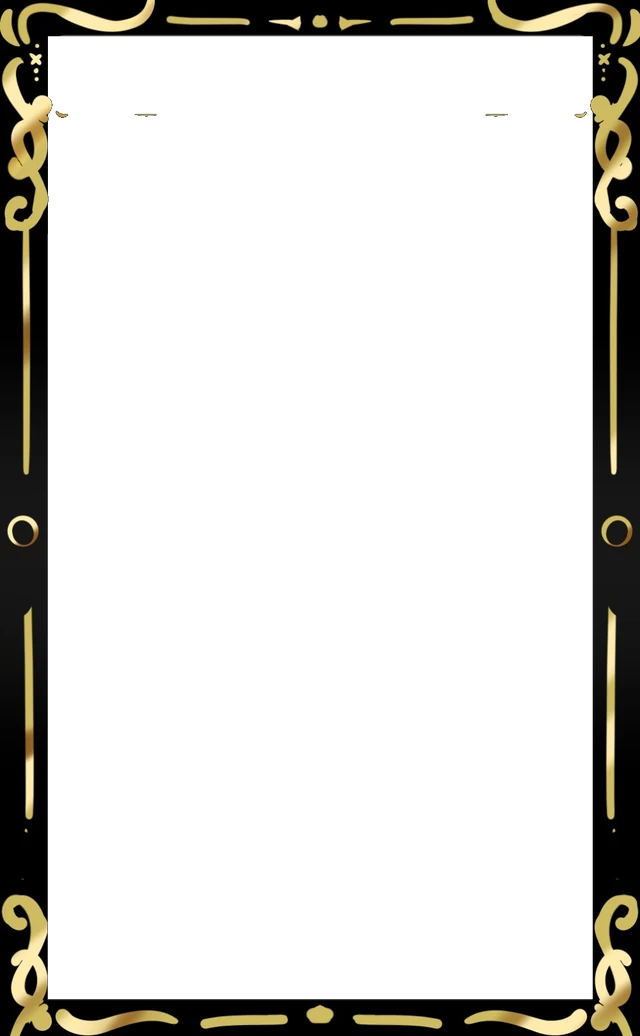
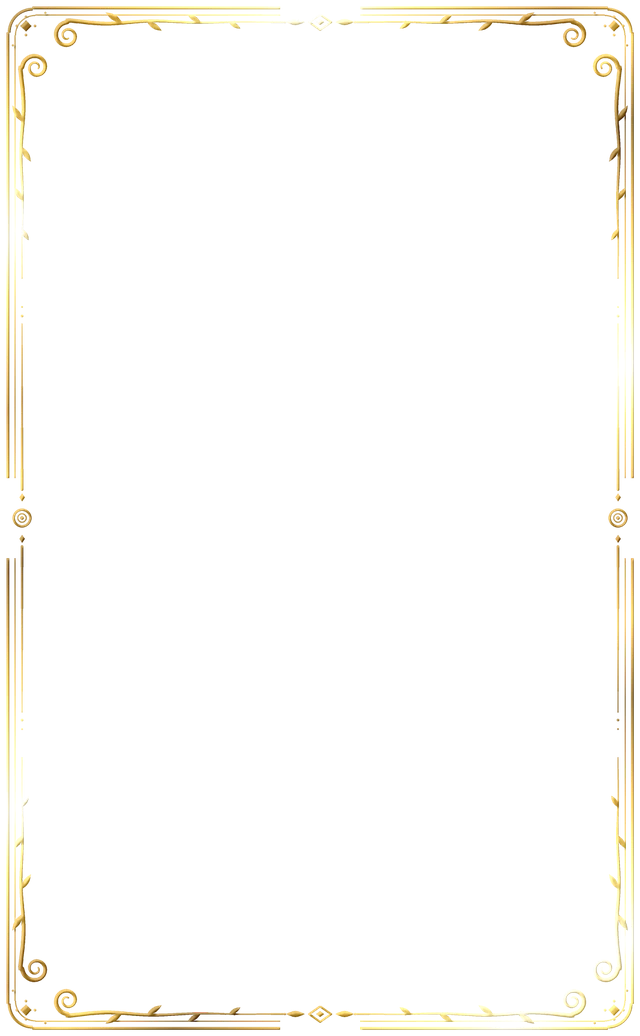
feat(premium): filigrana dorada original para el marco de donación
- Reemplaza el recorte del boceto por arte propio generado por código
- Añade scripts/arte/marco-donacion.py (Pillow + numpy), reproducible
- Documenta el generador en AGENTS.md

Claude-Session: https://claude.ai/code/session_017Z7sUcz1SjHNVRar6wnBqo

Changed region(s): [[0.0, 0.0, 1.0, 1.0]]

diff --git a/scripts/arte/marco-donacion.py b/scripts/arte/marco-donacion.py
@@ -1,0 +1,285 @@
+#!/usr/bin/env python3
+# Copyright (c) 2026 VTuberDex. Todos los derechos reservados. Ver LICENSE.
+"""
+Genera `components/marcos/donacion.webp`: la filigrana dorada ORIGINAL del marco de las cartas gradeadas por donación.
+
+Estilo pedido por el mantenedor (boceto): hoja negra con un marco de oro ornamentado: doble filete, volutas en las
+esquinas, anillos a los costados y un medallón arriba y abajo. El boceto era solo una guía de estilo; el dibujo es nuestro
+y sale de este script, así que es reproducible y se puede afinar (todas las medidas están arriba) en vez de ser un
+archivo opaco. El artista puede sustituir el resultado por su versión final con el mismo contrato (ver `premium-marco-arte.ts`).
+
+Uso (necesita Pillow y numpy):   python3 scripts/arte/marco-donacion.py
+Resultado: PNG/WebP con alfa, 640 x 1036 (proporción 1 : 1,62 de la placa). Solo hay oro: el interior queda transparente y
+el negro lo pone la hoja (`insert.frame`).
+
+CÓMO SE DIBUJA
+ · Todo se traza en una máscara (L) a 3x y se baja con LANCZOS: bordes limpios sin dibujar a mano el antialias.
+ · Los trazos son POLÍGONOS de ancho variable (`trazo`): una línea de contorno con grosor que va de `w0` a `w1`, que es lo que
+   da el aire de pluma de caligrafía (un `line()` de ancho fijo se vería técnico).
+ · El oro es un degradado metálico en bandas diagonales con un brillo estrecho, no un color liso.
+"""
+import math
+import sys
+from pathlib import Path
+
+import numpy as np
+from PIL import Image, ImageDraw, ImageFilter
+
+# ---- Medidas (en px del lienzo BASE de 988 x 1600; todo se escala solo) -------------------------------------------------
+W, H = 988, 1600
+SS = 3  # supersampling
+SALIDA = (640, 1036)
+
+BANDA = 66  # el adorno vive en este margen exterior (≈ 7 % del ancho): lo de dentro lo tapan la etiqueta y la ventana
+FILETE_EXT = (12, 4.4)  # (inset, grosor) del filete exterior
+FILETE_INT = (23, 1.8)  # idem del interior
+EJE = 36  # línea central de las enredaderas dentro de la banda
+GAP_MEDALLON = 62  # medio ancho que los filetes dejan libre alrededor de un medallón
+
+ORO = [  # (posición 0..1, color) a lo largo del degradado metálico
+    (0.00, (110, 78, 22)),
+    (0.18, (206, 162, 62)),
+    (0.34, (250, 226, 138)),
+    (0.42, (255, 247, 205)),  # brillo
+    (0.52, (232, 196, 96)),
+    (0.72, (150, 108, 34)),
+    (0.86, (214, 172, 70)),
+    (1.00, (110, 78, 22)),
+]
+
+
+def s(v):
+    return v * SS
+
+
+def trazo(draw, pts, w0, w1, caps=True):
+    """Polígono de ancho variable sobre la línea `pts` (lista de (x, y)); el ancho va de w0 a w1 a lo largo del trazo."""
+    n = len(pts)
+    if n < 2:
+        return
+    izq, der = [], []
+    for i, (x, y) in enumerate(pts):
+        a = pts[max(i - 1, 0)]
+        b = pts[min(i + 1, n - 1)]
+        dx, dy = b[0] - a[0], b[1] - a[1]
+        ln = math.hypot(dx, dy) or 1.0
+        nx, ny = -dy / ln, dx / ln
+        t = i / (n - 1)
+        w = (w0 + (w1 - w0) * t) / 2
+        izq.append((s(x + nx * w), s(y + ny * w)))
+        der.append((s(x - nx * w), s(y - ny * w)))
+    draw.polygon(izq + der[::-1], fill=255)
+    if caps:
+        for (x, y), w in ((pts[0], w0), (pts[-1], w1)):
+            r = max(w / 2, 0.3)
+            draw.ellipse((s(x - r), s(y - r), s(x + r), s(y + r)), fill=255)
+
+
+def punto(draw, x, y, r):
+    draw.ellipse((s(x - r), s(y - r), s(x + r), s(y + r)), fill=255)
+
+
+def anillo(draw, x, y, r, grosor):
+    draw.ellipse((s(x - r), s(y - r), s(x + r), s(y + r)), outline=255, width=max(1, round(s(grosor))))
+
+
+def rombo(draw, x, y, ancho, alto, relleno=True, grosor=1.6):
+    pts = [(s(x), s(y - alto / 2)), (s(x + ancho / 2), s(y)), (s(x), s(y + alto / 2)), (s(x - ancho / 2), s(y))]
+    if relleno:
+        draw.polygon(pts, fill=255)
+    else:
+        draw.line(pts + [pts[0]], fill=255, width=max(1, round(s(grosor))), joint="curve")
+
+
+def hoja(draw, cx, cy, largo, ancho, angulo):
+    """Hoja en forma de lente (dos arcos) centrada en (cx, cy) y apuntando a `angulo` (radianes)."""
+    ca, sa = math.cos(angulo), math.sin(angulo)
+    pts = []
+    for k in range(0, 21):
+        t = k / 20
+        u = (t - 0.5) * largo
+        v = math.sin(t * math.pi) * ancho / 2
+        pts.append((cx + u * ca - v * sa, cy + u * sa + v * ca))
+    for k in range(20, -1, -1):
+        t = k / 20
+        u = (t - 0.5) * largo
+        v = -math.sin(t * math.pi) * ancho / 2
+        pts.append((cx + u * ca - v * sa, cy + u * sa + v * ca))
+    draw.polygon([(s(x), s(y)) for x, y in pts], fill=255)
+
+
+def espiral(cx, cy, r0, r1, vueltas, ang0, sentido, n=140):
+    """Puntos de una espiral que parte a radio r0 y ángulo ang0 y se cierra hasta r1. sentido = +1 horario en pantalla."""
+    pts = []
+    for i in range(n + 1):
+        t = i / n
+        r = r0 + (r1 - r0) * (t**0.85)
+        a = ang0 + sentido * vueltas * 2 * math.pi * t
+        pts.append((cx + r * math.cos(a), cy + r * math.sin(a)))
+    return pts
+
+
+def enredadera_superior(x_ini, x_fin, y, amplitud, longitud_onda):
+    """Línea ondulada de x_ini a x_fin (puede ser decreciente) cuya onda se apaga en x_ini (para empalmar con la voluta)."""
+    n = 120
+    pts = []
+    for i in range(n + 1):
+        t = i / n
+        x = x_ini + (x_fin - x_ini) * t
+        env = t  # 0 donde empalma con la voluta, 1 lejos
+        pts.append((x, y + amplitud * env * math.sin(2 * math.pi * (x - x_ini) / longitud_onda)))
+    return pts
+
+
+def esquina_superior_izquierda(draw):
+    """Voluta de una esquina (las otras tres son espejos): dos espirales, una por cada enredadera, y sus hojas."""
+    R = 21
+    # Enredadera de arriba -> voluta que gira en sentido antihorario (entra por la parte alta, hacia la izquierda).
+    cx1, cy1 = 104, EJE + R - 2
+    cola = enredadera_superior(430, cx1, EJE - 2, 3.0, 150)  # de lejos (fina) hacia la voluta (gruesa)
+    # El trazo se dibuja de la voluta hacia fuera para que el ancho vaya de grueso a fino.
+    esp = espiral(cx1, cy1, R, 4.5, 1.55, -math.pi / 2, -1)
+    cuerpo = esp[::-1] + cola[::-1]  # del centro de la espiral, saliendo, hasta la punta lejana
+    # Se recorre desde el centro de la voluta: ancho fino en el centro, máximo en la boca, y otra vez fino en la punta.
+    n = len(cuerpo)
+    corte = len(esp)
+    trazo(draw, cuerpo[:corte], 2.0, 6.6, caps=True)
+    trazo(draw, cuerpo[corte - 1 :], 6.6, 0.8, caps=True)
+
+    # Enredadera lateral: la misma pieza espejada sobre la diagonal.
+    cx2, cy2 = cy1, cx1
+    cola2 = [(y, x) for (x, y) in cola]
+    esp2 = [(y, x) for (x, y) in esp]
+    cuerpo2 = esp2[::-1] + cola2[::-1]
+    trazo(draw, cuerpo2[:corte], 2.0, 6.6, caps=True)
+    trazo(draw, cuerpo2[corte - 1 :], 6.6, 0.8, caps=True)
+
+    # Hojas a lo largo de cada enredadera, alternando lados.
+    for k, x in enumerate((176, 238, 300, 362)):
+        lado = -1 if k % 2 == 0 else 1
+        y = EJE - 2 + 3.0 * ((x - 104) / 326) * math.sin(2 * math.pi * (x - 104 - 0) / 150)
+        largo = 30 - k * 3
+        ang = math.radians(-32 * lado) if lado < 0 else math.radians(32)
+        hoja(draw, x, y + lado * 7, largo, 8.5 - k * 0.6, ang)
+        hoja(draw, y + lado * 7, x, largo, 8.5 - k * 0.6, math.pi / 2 - ang)
+
+    # El diamante de la esquina y unas motas.
+    rombo(draw, 40, 40, 17, 17)
+    for dx, dy in ((26, 40), (54, 40), (40, 26), (40, 54)):
+        punto(draw, dx, dy, 1.9)
+    punto(draw, 70, 20, 1.4)
+    punto(draw, 20, 70, 1.4)
+
+
+def medallon_horizontal(draw, cx, y):
+    """Adorno central de arriba/abajo: rombo con ojo, dos hojas y dos filetes finos que mueren hacia las enredaderas."""
+    rombo(draw, cx, y, 34, 24, relleno=False, grosor=3.4)
+    rombo(draw, cx, y, 12, 9)
+    for lado in (-1, 1):
+        hoja(draw, cx + lado * 38, y, 28, 9, 0 if lado > 0 else math.pi)
+        trazo(draw, [(cx + lado * 54, y), (cx + lado * 120, y)], 3.2, 0.7)
+        punto(draw, cx + lado * 132, y, 1.8)
+        punto(draw, cx + lado * 146, y, 1.1)
+
+
+def medallon_lateral(draw, x, cy):
+    """Adorno central de los costados: anillo doble con ojo, rombos arriba y abajo y filetes que mueren hacia las volutas."""
+    anillo(draw, x, cy, 14.5, 3.6)
+    anillo(draw, x, cy, 7.2, 1.6)
+    punto(draw, x, cy, 2.6)
+    for lado in (-1, 1):
+        rombo(draw, x, cy + lado * 32, 8, 12)
+        trazo(draw, [(x, cy + lado * 44), (x, cy + lado * 300)], 3.4, 0.7)
+        punto(draw, x, cy + lado * 312, 1.8)
+        punto(draw, x, cy + lado * 326, 1.1)
+
+
+def filetes(draw):
+    """Doble filete: continuo en el contorno, con un hueco alrededor de cada medallón y esquinas redondeadas."""
+    for inset, grosor in (FILETE_EXT, FILETE_INT):
+        w = max(1, round(s(grosor)))
+        x0, y0, x1, y1 = inset, inset, W - inset, H - inset
+        r = 38 - (inset - FILETE_EXT[0]) * 0.6
+        tramos = [
+            # arriba: izquierda y derecha del medallón
+            ((x0 + r, y0), (W / 2 - GAP_MEDALLON, y0)),
+            ((W / 2 + GAP_MEDALLON, y0), (x1 - r, y0)),
+            # abajo
+            ((x0 + r, y1), (W / 2 - GAP_MEDALLON, y1)),
+            ((W / 2 + GAP_MEDALLON, y1), (x1 - r, y1)),
+            # izquierda y derecha: arriba y abajo del medallón
+            ((x0, y0 + r), (x0, H / 2 - GAP_MEDALLON)),
+            ((x0, H / 2 + GAP_MEDALLON), (x0, y1 - r)),
+            ((x1, y0 + r), (x1, H / 2 - GAP_MEDALLON)),
+            ((x1, H / 2 + GAP_MEDALLON), (x1, y1 - r)),
+        ]
+        for (ax, ay), (bx, by) in tramos:
+            draw.line((s(ax), s(ay), s(bx), s(by)), fill=255, width=w)
+        for (ex, ey, a0) in ((x0, y0, 180), (x1, y0, 270), (x1, y1, 0), (x0, y1, 90)):
+            cx = ex + (r if ex == x0 else -r)
+            cy = ey + (r if ey == y0 else -r)
+            draw.arc((s(cx - r), s(cy - r), s(cx + r), s(cy + r)), a0, a0 + 90, fill=255, width=w)
+
+
+def dibujar():
+    mascara = Image.new("L", (s(W), s(H)), 0)
+    d = ImageDraw.Draw(mascara)
+    filetes(d)
+
+    # Esquina arriba-izquierda y sus tres espejos: se dibuja una vez en un lienzo y se refleja.
+    cuarto = Image.new("L", (s(W), s(H)), 0)
+    esquina_superior_izquierda(ImageDraw.Draw(cuarto))
+    espejos = [
+        cuarto,
+        cuarto.transpose(Image.FLIP_LEFT_RIGHT),
+        cuarto.transpose(Image.FLIP_TOP_BOTTOM),
+        cuarto.transpose(Image.ROTATE_180),
+    ]
+    for e in espejos:
+        mascara = Image.fromarray(np.maximum(np.asarray(mascara), np.asarray(e)))
+    d = ImageDraw.Draw(mascara)
+
+    medallon_horizontal(d, W / 2, EJE - 2)
+    medallon_horizontal(d, W / 2, H - (EJE - 2))
+    medallon_lateral(d, EJE - 2, H / 2)
+    medallon_lateral(d, W - (EJE - 2), H / 2)
+    return mascara
+
+
+def degradado_oro(ancho, alto):
+    """Oro metálico: bandas diagonales con un brillo estrecho, repetidas para que la luz «recorra» la pieza."""
+    yy, xx = np.mgrid[0:alto, 0:ancho].astype(np.float32)
+    t = ((xx * 0.42 + yy * 0.58) / (ancho * 0.42 + alto * 0.58)) * 2.6 % 1.0
+    pos = [p for p, _ in ORO]
+    out = np.zeros((alto, ancho, 3), np.float32)
+    for c in range(3):
+        out[..., c] = np.interp(t, pos, [col[c] for _, col in ORO])
+    return out
+
+
+def main():
+    destino = Path(__file__).resolve().parents[2] / "components" / "marcos" / "donacion.webp"
+    mascara = dibujar().filter(ImageFilter.GaussianBlur(0.35 * SS / 3))
+    mascara = mascara.resize((W, H), Image.LANCZOS)
+
+    oro = degradado_oro(W, H)
+    alfa = np.asarray(mascara, np.float32)
+
+    # Relieve: un reborde claro arriba-izquierda y oscuro abajo-derecha da volumen al trazo.
+    relieve = np.asarray(mascara.filter(ImageFilter.GaussianBlur(1.6)), np.float32)
+    luz = np.clip((np.roll(relieve, 2, axis=(0, 1)) - relieve) * 0.9, -60, 60)[..., None]
+    rgb = np.clip(oro - luz, 0, 255)
+
+    rgba = np.dstack([rgb, alfa]).astype(np.uint8)
+    img = Image.fromarray(rgba, "RGBA").resize(SALIDA, Image.LANCZOS)
+    img.save(destino, "WEBP", quality=90, method=6)
+    vista = Path("/tmp/vis/marco-original.png")
+    if vista.parent.exists():
+        fondo = Image.new("RGBA", SALIDA, (13, 13, 16, 255))
+        fondo.alpha_composite(img)
+        fondo.convert("RGB").save(vista)
+    print("ok", destino, img.size, destino.stat().st_size, "bytes")
+
+
+if __name__ == "__main__":
+    sys.exit(main())

diff --git a/AGENTS.md b/AGENTS.md
@@ -511,10 +511,9 @@ Tres añadidos del panel `/minecraft-admin` (solo admin) y de la carta. Todo que
   interior y `etiqueta` (rótulo del tipo y filete de acento) por origen vía `marcoDe()`: `premium8` dorado («PREMIUM 8»), `misiones` esmeralda
   («MISIONES»), `donacion` azul («DONACIÓN», sin origen = donación). La banda sigue siendo del GRADO; BLACK LABEL y DETERIORADA mandan sobre el rótulo.
   Solo perillas existentes: no tocan samplers. Diseño propuesto por Claude: ajustable tocando solo esa tabla.
-  **Marco de donación = hoja negra con filigrana dorada** (boceto del mantenedor, 2026-11-28): `marcos.donacion.insert.arte = "donacion"` pinta la imagen
+  **Marco de donación = hoja negra con filigrana dorada** (estilo del boceto del mantenedor, 2026-11-28; el dibujo es ORIGINAL y lo genera `scripts/arte/marco-donacion.py`, que necesita Pillow y numpy: `python3 scripts/arte/marco-donacion.py`): `marcos.donacion.insert.arte = "donacion"` pinta la imagen
   `components/marcos/donacion.webp` (alfa; 640×1036, proporción 1:1,62 como la placa) a lienzo completo y DEBAJO de la ventana y la etiqueta
-  (`premium-marco-arte.ts`; encima, las volutas de las esquinas pisaban el texto). El interior del boceto (gris, rayas de «Placeholder», el negro)
-  es transparente: solo queda el dorado, y el negro de la hoja lo pone `insert.frame`. **Para sustituirla por el arte final del artista**: mismo
+  (`premium-marco-arte.ts`; encima, las volutas de las esquinas pisaban el texto). El interior es transparente: solo queda el dorado, y el negro de la hoja lo pone `insert.frame`. **Para sustituirla por el arte final del artista**: mismo
   contrato (1:1,62, alfa, adorno en el ~7 % exterior) y se reemplaza el archivo, sin tocar código. El lienzo es síncrono: `useArteDeMarco` baja
   la imagen y repinta la hoja al llegar (si falla, la hoja queda negra y legible; el fallo no se memoiza). El acrílico de donación sigue azul.
   **Marco de misiones = tema Minecraft** (`components/premium-minecraft.ts`): `marcos.misiones.insert.fondo = "minecraft"` pinta la hoja con un
